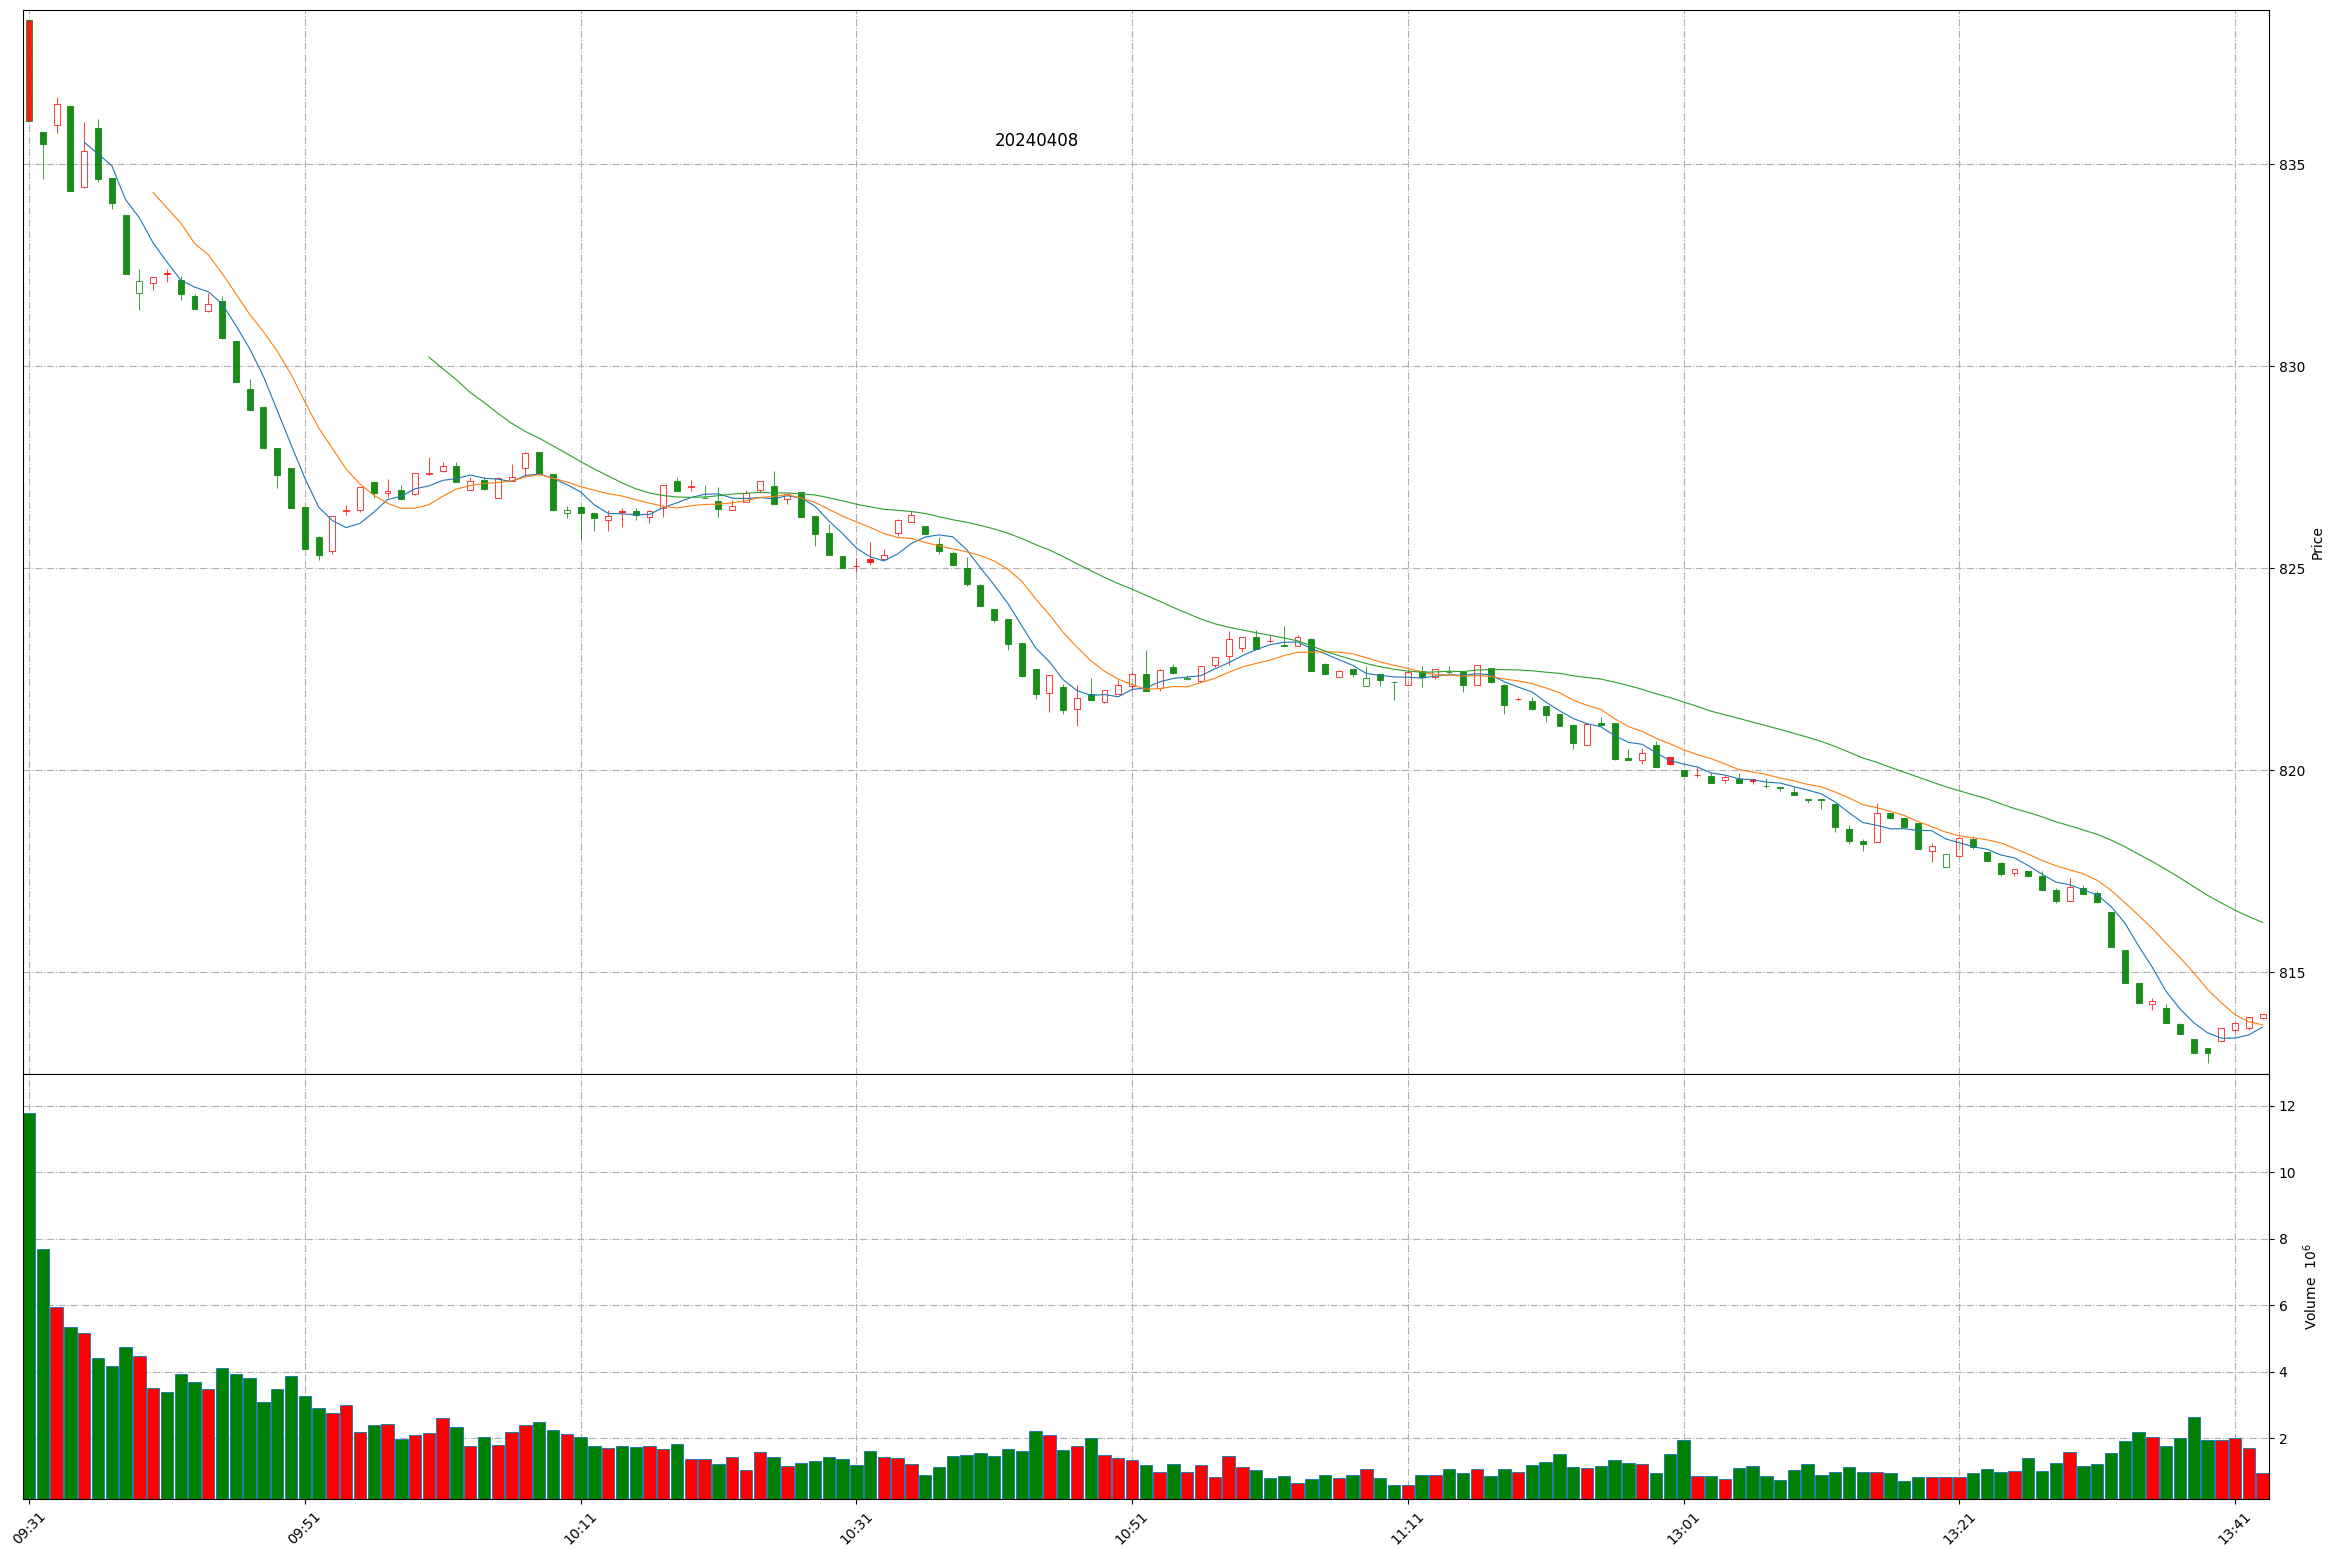
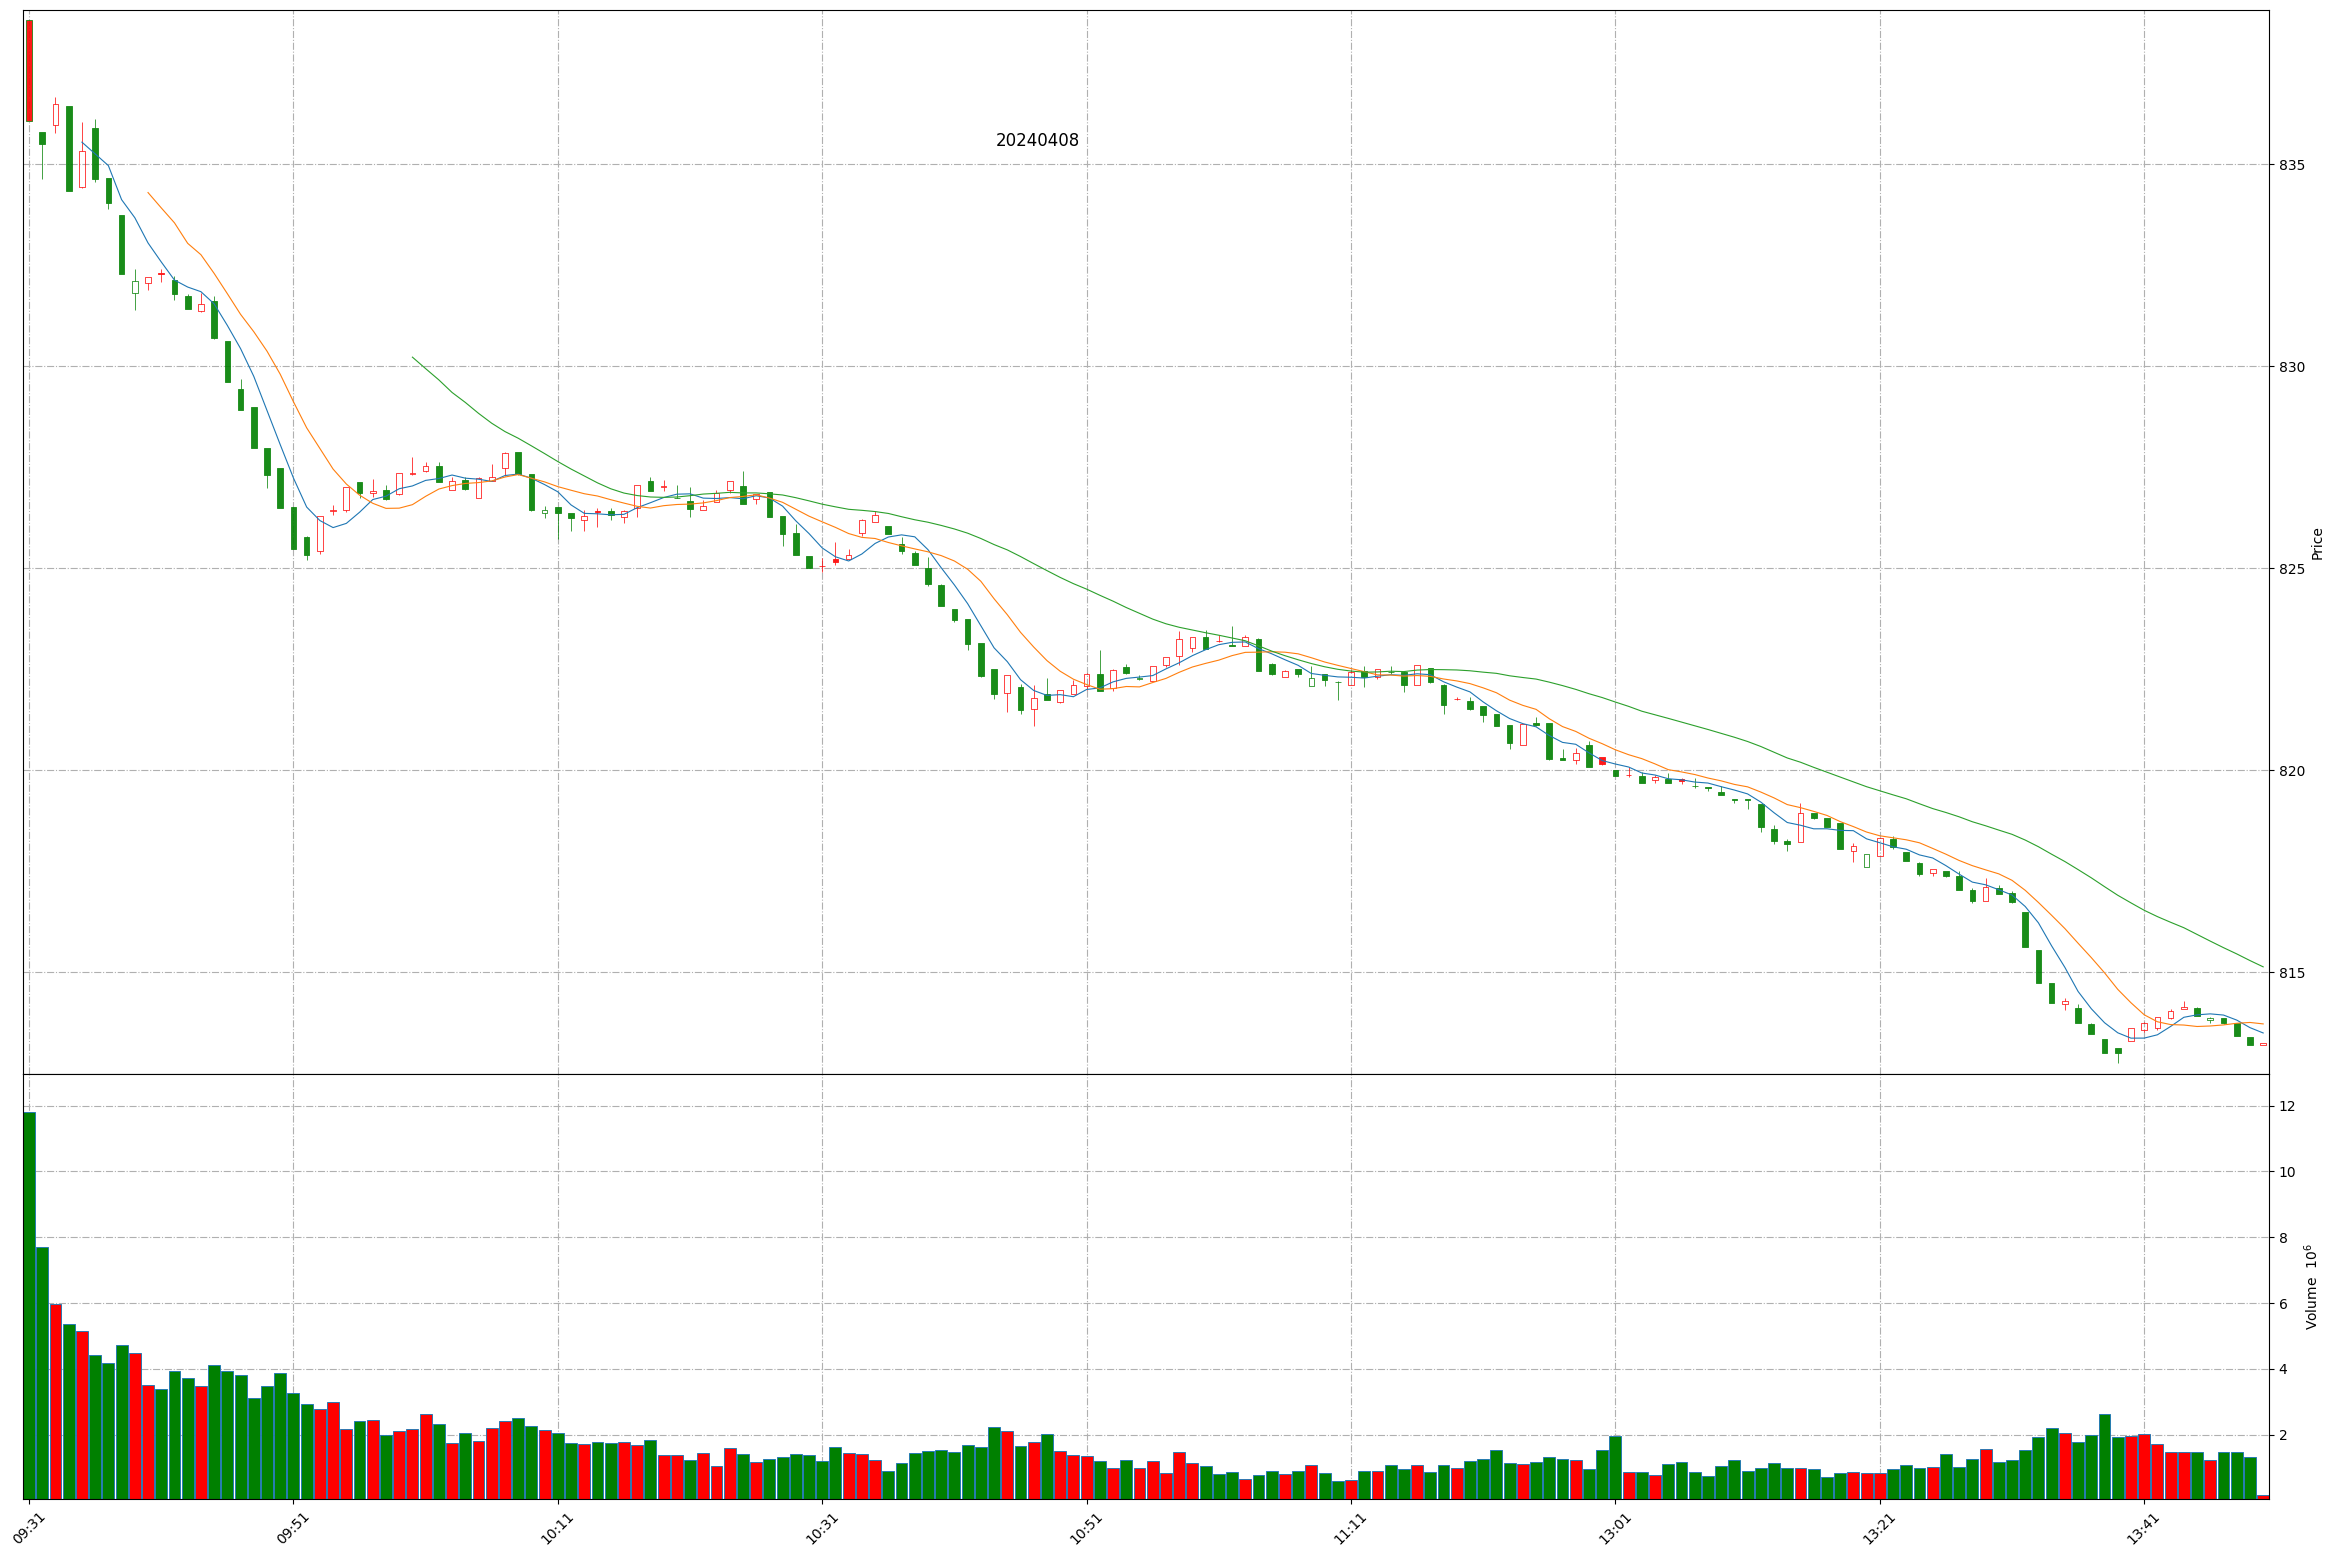
Github action update at 2024-04-08 13:49:26.

diff --git a/README.md b/README.md
@@ -1,11 +1,11 @@
 
 # Daily-A-share-market-quotes 每日 A 股指数（5min 更新）- 20240408
 
-### 上证指数 20240408 13:42
+### 上证指数 20240408 13:49
 ![](./fig/2024/4/20240408-sh000001.png)
 
-### 深证成指 20240408 13:42
+### 深证成指 20240408 13:49
 ![](./fig/2024/4/20240408-sz399001.png)
 
-### 北证50 20240408 13:42
+### 北证50 20240408 13:49
 ![](./fig/2024/4/20240408-bj899050.png)
